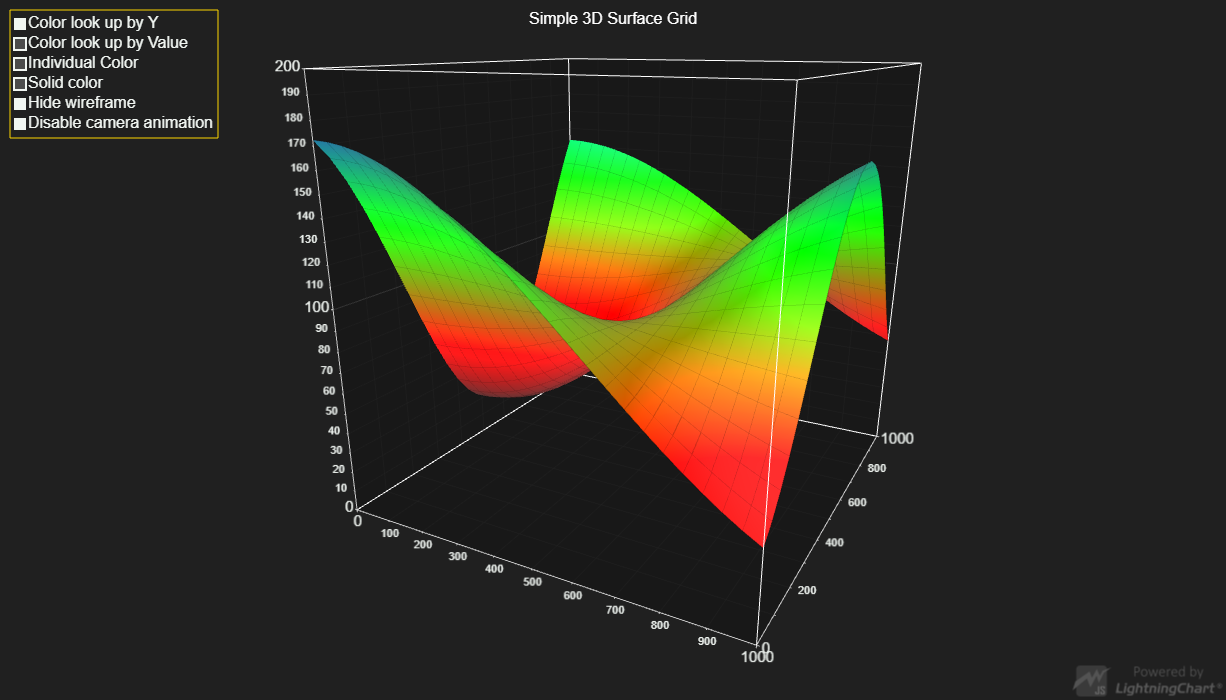
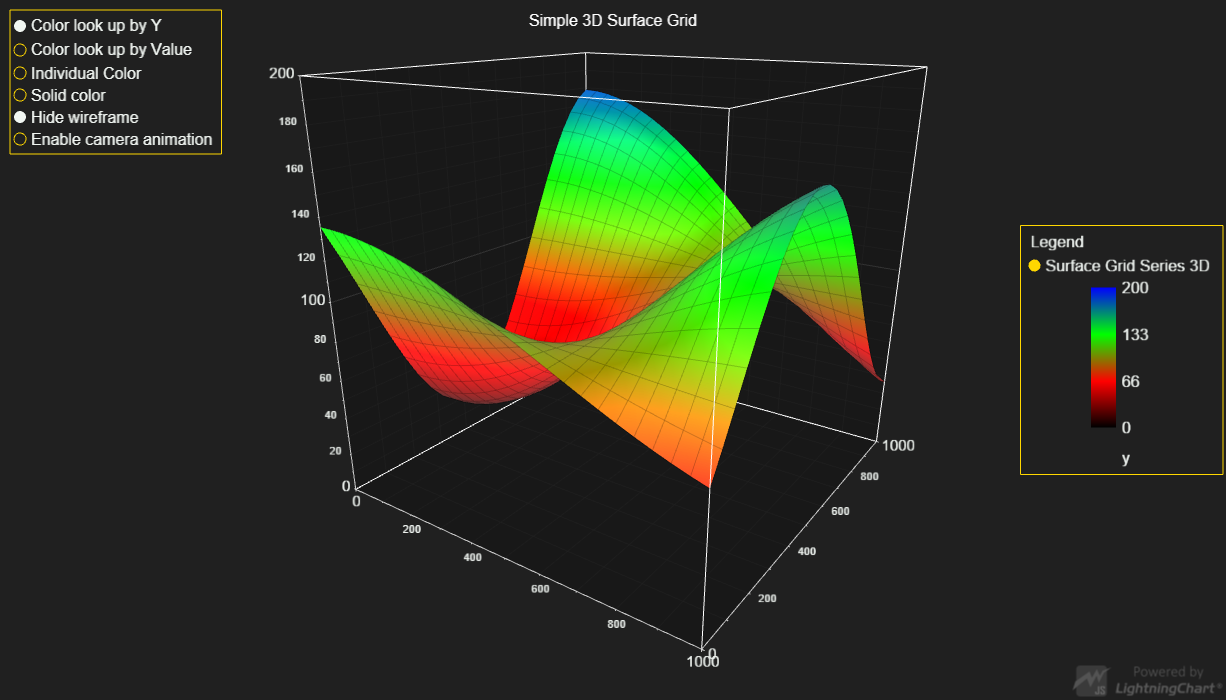
LCJS 3.0.0

diff --git a/src/index.js b/src/index.js
@@ -187,3 +187,9 @@ const handleCameraAnimationToggled = ( state ) => {
 const cameraAnimationEnabledCheckbox = group.addElement( UIElementBuilders.CheckBox )
 cameraAnimationEnabledCheckbox.onSwitch((_, state) => handleCameraAnimationToggled( state ))
 handleCameraAnimationToggled( true )
+chart3D.onBackgroundMouseDrag(() => {
+    handleCameraAnimationToggled( false )
+})
+
+// Add LegendBox to chart.
+const legend = chart3D.addLegendBox().add(chart3D)

diff --git a/README.md b/README.md
@@ -146,7 +146,7 @@ Direct developer email support can be purchased through a [Support Plan][4] or b
 © Arction Ltd 2009-2020. All rights reserved.
 
 
-[3D chart]: https://www.arction.com/lightningchart-js-api-documentation/v2.2.0/classes/chart3d.html
-[3D surface grid series]: https://www.arction.com/lightningchart-js-api-documentation/v2.2.0/classes/surfacegridseries3d.html
-[Grid range options]: https://www.arction.com/lightningchart-js-api-documentation/v2.2.0/interfaces/gridrangeoptions.html
+[3D chart]: https://www.arction.com/lightningchart-js-api-documentation/v3.0.0/classes/chart3d.html
+[3D surface grid series]: https://www.arction.com/lightningchart-js-api-documentation/v3.0.0/classes/surfacegridseries3d.html
+[Grid range options]: https://www.arction.com/lightningchart-js-api-documentation/v3.0.0/interfaces/gridrangeoptions.html
 
